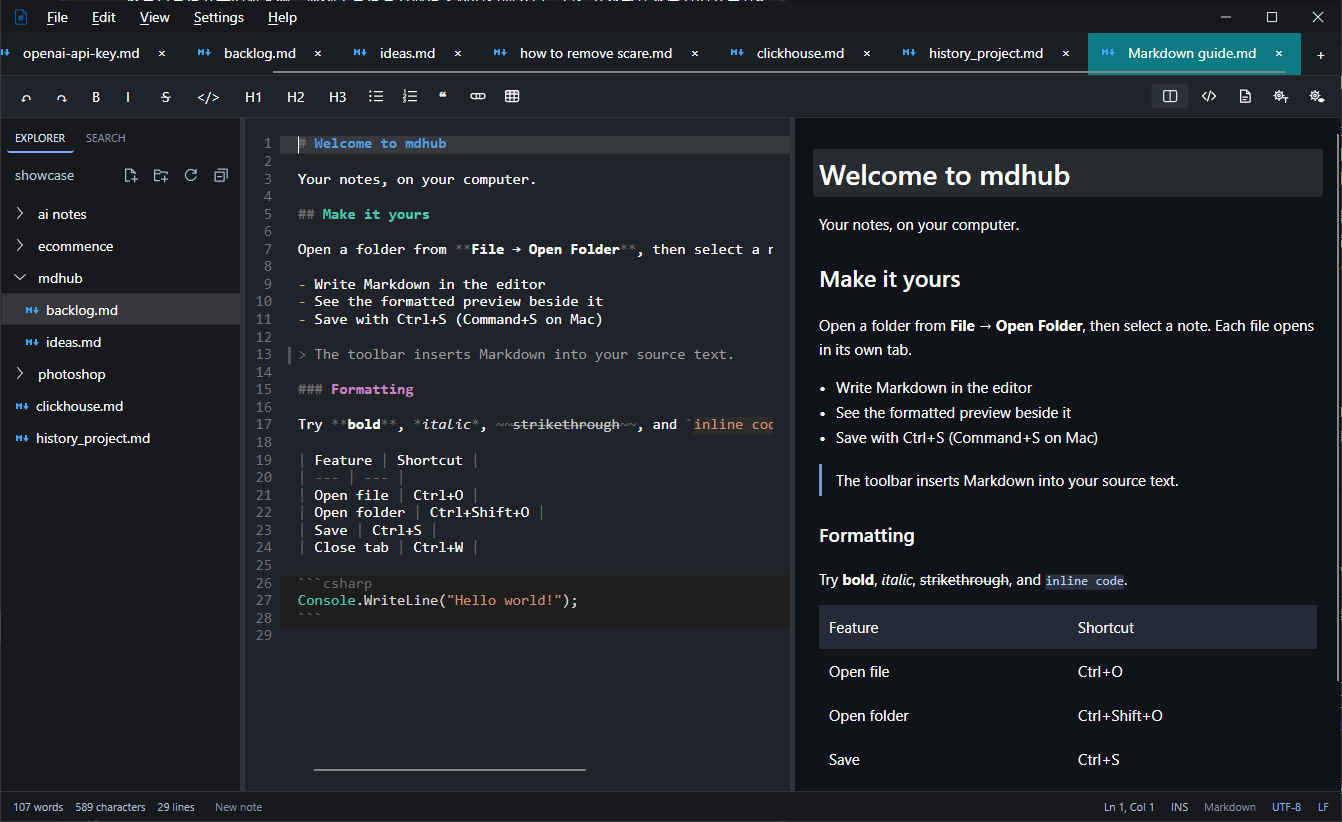
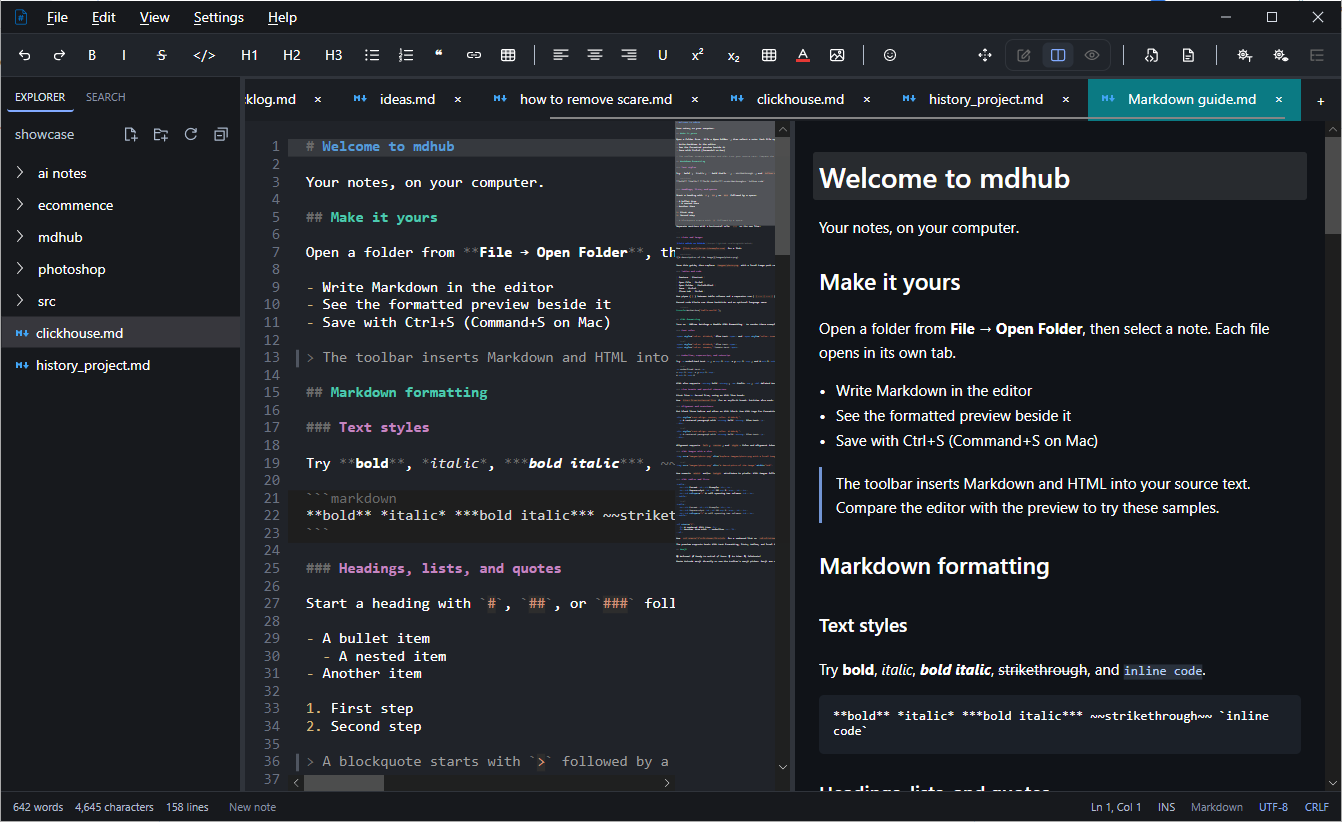
update readme.md for v1.1.0

diff --git a/README.md b/README.md
@@ -20,15 +20,18 @@ MDHub is a desktop app for keeping personal notes and journals locally. It has n
 - **Plain `.md` files, no lock-in.** Notes and journals are saved and organized as standard Markdown files in ordinary folders. Any text editor can open them, even everyone's favorite, vim.
 - **Fully offline.** Everything works locally, with no account, no cloud and no network.
 - **Fast search.** Find anything across all your saved notes in moments.
-- **Speaks your language and your files.** The interface comes in 8 languages. Legacy encodings such as Big5 open correctly, and LF and CRLF line endings are kept as they are.
-- **A familiar editor.** The editor works like VS Code and uses similar keyboard shortcuts. Hold **Alt+Shift** and press **Up/Down** to add carets on adjacent lines, then release the modifiers to edit them together. Navigation keys move every caret; hold **Shift** while navigating to select text at each caret. **Esc** returns to one caret. Move whole lines with **Alt+Up/Down**.
+- **A familiar editor.** The editor works like VS Code and uses similar keyboard shortcuts. Vertical editing, **(ctrl+p)quick open**, mini-map in editor are supported.
 - **Side-by-side editors.** Press `Ctrl+\` (or `Ctrl+Shift+\`) to split the current note to the right, with up to five panes. Each pane has its own tabs, cursor and scroll position; views of the same note share edits, undo and saved state. In Quick Open, **Ctrl+Enter** opens the selected file in a new pane. Explorer files also offer **Open to the side** on right-click.
+<img src="docs/screenshots/split.png" alt="MDHub in the split view" width="49%">
 - **Code syntax colors.** Highlight source files and Markdown code blocks, with inline code styling in `.md` files. The editor gear's **Code syntax highlighting** option is on by default and applies immediately. [Languages and settings](docs/code-syntax-highlighting.md).
-- **Basic HTML formatting.** Mix HTML with Markdown, or preview `.html` files using supported tags, alignment, colors, tables and lists. [Supported HTML and settings](docs/html-formatting.md).
+- **HTML formatting.** Mix HTML with Markdown, or preview `.html` files using supported tags, alignment, colors, tables and lists. [Supported HTML and settings](docs/html-formatting.md).
+- **Document outline** Show document outline. Quick overview document and fast navigate document.
+<img src="docs/screenshots/outline.png" alt="Document outline demo" width="49%">
+
 
 ## Download
 
-MDHub 1.0.0 is available from [GitHub Releases](https://github.com/hong56hk/mdhub/releases).
+Latest MDHub is available from [GitHub Releases](https://github.com/hong56hk/mdhub/releases).
 
 ## Build from source
 
